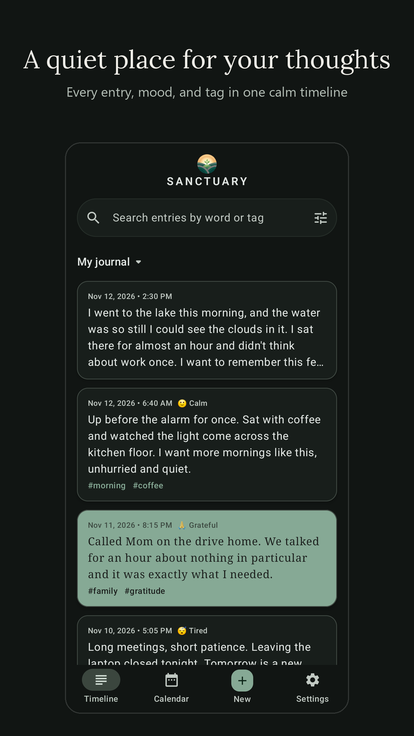
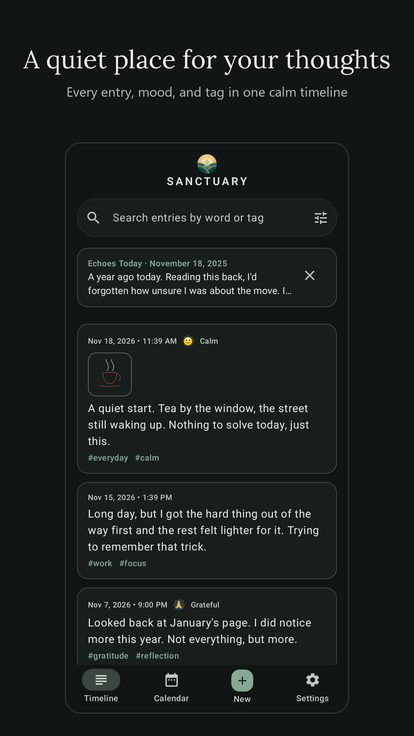
Sanctuary page and privacy policy: 1.7.0
Doodles and Echoes Year in the feature list; six new screenshots from
the Pixel (timeline, privacy, editor, doodle, Echoes Year, journals) in a
three-column gallery; the privacy policy names doodles in what's stored
and backed up. The app is titled "Sanctuary: Private Journal", as on
Google Play.

diff --git a/sanctuary/privacy/index.html b/sanctuary/privacy/index.html
@@ -3,7 +3,7 @@
 <head>
 <meta charset="utf-8">
 <meta name="viewport" content="width=device-width, initial-scale=1">
-<title>Privacy Policy — Sanctuary</title>
+<title>Privacy Policy — Sanctuary: Private Journal</title>
 <meta name="description" content="Privacy policy for Sanctuary, a private, on-device Android journaling app. Your journal stays on your phone: no accounts, no servers, no data collection.">
 <style>
   :root {
@@ -73,8 +73,8 @@
 <div class="wrap">
   <p style="margin:0 0 1.5rem;font-size:.9rem"><a href="../../">&larr; Legacy Digital Labs</a> &middot; <a href="../">Sanctuary</a></p>
   <header>
-    <h1>Privacy Policy — Sanctuary</h1>
-    <p class="dates"><strong>Effective date:</strong> 20 August 2026 &nbsp;·&nbsp; <strong>Last updated:</strong> 5 November 2026</p>
+    <h1>Privacy Policy — Sanctuary: Private Journal</h1>
+    <p class="dates"><strong>Effective date:</strong> 20 August 2026 &nbsp;·&nbsp; <strong>Last updated:</strong> 18 November 2026</p>
     <p class="lede">Sanctuary is a private, on-device journaling app for Android. This policy explains what Sanctuary does and does not do with your information.</p>
     <div class="promise">The short version: <strong>your journal stays on your phone.</strong> Sanctuary has no servers, no account, and no ability to send your entries anywhere.</div>
   </header>
@@ -98,7 +98,7 @@
   <h2>3. What you create stays on your device</h2>
   <p>Everything you put into Sanctuary is stored <strong>locally in the app&rsquo;s private storage</strong> on your device:</p>
   <ul>
-    <li><strong>Journal entries</strong> (text, moods, tags, dates) are stored in a local database that is <strong>encrypted at rest</strong> using SQLCipher. The database key is kept in an encrypted settings file whose own key is held in Android&rsquo;s hardware-backed Keystore.</li>
+    <li><strong>Journal entries</strong> (text, moods, tags, dates, and any doodle you draw) are stored in a local database that is <strong>encrypted at rest</strong> using SQLCipher. The database key is kept in an encrypted settings file whose own key is held in Android&rsquo;s hardware-backed Keystore.</li>
     <li><strong>Photos</strong> you attach to an entry are copied into the app&rsquo;s private storage, <strong>encrypted at rest</strong> (AES-256-GCM), and are not shared with other apps. The photo key is separate from the database key and is kept the same way.</li>
     <li><strong>Settings</strong> (theme, font, app-lock configuration, and similar preferences) are stored locally, in the same encrypted settings file. If <strong>Recent searches</strong> is on, your last 5 searches are kept there too; they are never part of a backup, and turning Recent searches off deletes them. If you turn on Automatic backup, its password and the folder you chose are kept there too (see &sect;8).</li>
     <li><strong>Crash log.</strong> If Sanctuary stops unexpectedly, it writes a short report to a file in its private storage. This one file is not encrypted, because it has to work even when the database doesn&rsquo;t, so it holds only technical details: the time of the crash, where in Sanctuary&rsquo;s code it happened (class and method names and line numbers), the type of error, your app and Android versions, and your phone&rsquo;s maker and model. It holds none of your entries or photos, and it leaves out error messages, because a message can quote the data that caused it. It stays on your phone unless you choose to send it (see &sect;10).</li>
@@ -160,7 +160,7 @@
   <p>Sanctuary never sends your data off your device, so you remain in full control:</p>
   <ul>
     <li>Delete individual entries at any time within the app. A deleted entry waits in Recently deleted for 30 days in case you change your mind, and you can remove it sooner from there.</li>
-    <li>Export or back up your journal yourself using the app&rsquo;s backup/export features (these produce a file you choose where to save; the app does not upload it anywhere). This is also how you move your journal to a new phone: export it, then import the file on the new phone. A backup includes your entries and their photos. A plain backup is not encrypted, so anyone who has the file can read your entries and see your photos; keep it somewhere you trust. A password-protected backup is encrypted as a whole, entries and photos alike, with the password you choose. A letter you seal to your future self stays sealed inside Sanctuary until its day, but a backup carries its text like any other entry.</li>
+    <li>Export or back up your journal yourself using the app&rsquo;s backup/export features (these produce a file you choose where to save; the app does not upload it anywhere). This is also how you move your journal to a new phone: export it, then import the file on the new phone. A backup includes your entries, their doodles, and their photos. A plain backup is not encrypted, so anyone who has the file can read your entries and see your photos; keep it somewhere you trust. A password-protected backup is encrypted as a whole, entries and photos alike, with the password you choose. A letter you seal to your future self stays sealed inside Sanctuary until its day, but a backup carries its text like any other entry.</li>
     <li><strong>Automatic backup</strong> (a Pro feature, off unless you turn it on) makes a password-protected backup when you turn it on and about once a week after that, in a folder you choose. It keeps the latest three and removes only its own older automatic backups; nothing else in that folder is touched. Sanctuary reaches that folder through Android&rsquo;s folder picker, not a storage permission, and you can turn the backup off at any time.
       <ul>
         <li><strong>Your password.</strong> These backups run while you&rsquo;re away, so Sanctuary keeps the password you choose in its encrypted settings file (see &sect;3). It is never shown again, is not part of any backup, and is never sent anywhere. You&rsquo;ll need it to restore a backup on a new phone. If you lose it, no one can open those backups, including us.</li>

diff --git a/sanctuary/index.html b/sanctuary/index.html
@@ -3,7 +3,7 @@
 <head>
 <meta charset="utf-8">
 <meta name="viewport" content="width=device-width, initial-scale=1">
-<title>Sanctuary — a private, offline journal · Legacy Digital Labs</title>
+<title>Sanctuary: Private Journal · Legacy Digital Labs</title>
 <meta name="description" content="Sanctuary is a private, offline journal for Android. Your words stay on your phone, encrypted. No account, no cloud, no ads.">
 <link rel="icon" href="../assets/icon-192.png">
 <link rel="stylesheet" href="../assets/style.css">
@@ -28,7 +28,7 @@
   <div class="wrap">
     <section class="hero">
       <div>
-        <h1>Sanctuary</h1>
+        <h1>Sanctuary: Private Journal</h1>
         <p class="lede">A private, offline journal. Your words stay on your phone, encrypted.</p>
         <div class="actions">
           <a class="button" href="https://play.google.com/store/apps/details?id=com.sanctuary.myapp">Get it on Google Play</a>
@@ -42,10 +42,12 @@
     There's no account, no sign-up, no cloud server, no ads, and no trackers.</div>
 
     <div class="shots">
-      <img src="../assets/shots/01-timeline.png" alt="A quiet place for your thoughts: the Timeline, with every entry, mood and tag in one calm list" width="414" height="736" loading="lazy">
+      <img src="../assets/shots/01-timeline.png" alt="A quiet place for your thoughts: the Timeline, with an entry from a year ago today at the top and every entry, mood and tag in one calm list" width="414" height="736" loading="lazy">
       <img src="../assets/shots/02-privacy.png" alt="Your journal stays on your phone: no account, no cloud, no internet permission" width="414" height="736" loading="lazy">
       <img src="../assets/shots/03-write-freely.png" alt="Write freely, typos and all: the editor, where nothing pops up while you write" width="414" height="736" loading="lazy">
-      <img src="../assets/shots/04-journals.png" alt="Keep two journals, one for home and one for work, or more with Pro" width="414" height="736" loading="lazy">
+      <img src="../assets/shots/04-doodle.png" alt="Add a little drawing: a doodle of a steaming cup of tea, with six colors to choose from" width="414" height="736" loading="lazy">
+      <img src="../assets/shots/05-echoes-year.png" alt="Look back on your year: Echoes Year 2026, with 18 entries, 409 words and your most-used tags" width="414" height="736" loading="lazy">
+      <img src="../assets/shots/06-journals.png" alt="Keep two journals, one for home and one for work, or more with Pro" width="414" height="736" loading="lazy">
     </div>
 
     <h2>Private by design</h2>
@@ -61,8 +63,10 @@
       <li>Keep two journals, say one for home and one for work.</li>
       <li>A Timeline, tags, keyword search, and a Calendar of the days you wrote.</li>
       <li>Photos, fonts, and soft card colors to make each entry yours.</li>
+      <li>Add a small doodle to any entry, drawn with your finger.</li>
       <li>Write a letter to your future self and seal it until the day you choose.</li>
       <li>"On this day" gently brings back what you wrote before.</li>
+      <li>Echoes Year, from the Calendar, looks back on a whole year: the entries, the words, the tags you used most.</li>
       <li>On tablets and foldables, your Timeline and an entry sit side by side.</li>
       <li>Available in English, <span lang="de">Deutsch</span>, <span lang="es">Español</span>, <span lang="fr">Français</span>, <span lang="it">Italiano</span>, <span lang="ja">日本語</span>, <span lang="ko">한국어</span>, and <span lang="pt-BR">Português (Brasil)</span>.</li>
     </ul>

diff --git a/assets/style.css b/assets/style.css
@@ -75,7 +75,7 @@ p { margin: .75rem 0; }
 .actions { display: flex; gap: .75rem; flex-wrap: wrap; margin-top: 1.5rem; }
 
 .shots { display: grid; grid-template-columns: repeat(2, 1fr); gap: 1rem; margin-top: 1rem; }
-@media (min-width: 760px) { .shots { grid-template-columns: repeat(4, 1fr); } }
+@media (min-width: 760px) { .shots { grid-template-columns: repeat(3, 1fr); } }
 .shots img { border-radius: 12px; border: 1px solid var(--border); }
 
 ul.features { padding-left: 1.2rem; }

diff --git a/index.html b/index.html
@@ -57,7 +57,7 @@
 
     <h2>Our apps</h2>
     <div class="card">
-      <h3><a href="sanctuary/">Sanctuary</a> — a private, offline journal for Android</h3>
+      <h3><a href="sanctuary/">Sanctuary: Private Journal</a> — offline, for Android</h3>
       <p>A quiet place to write that keeps everything on your phone, encrypted. Available on
       <a href="https://play.google.com/store/apps/details?id=com.sanctuary.myapp">Google Play</a>.</p>
     </div>
